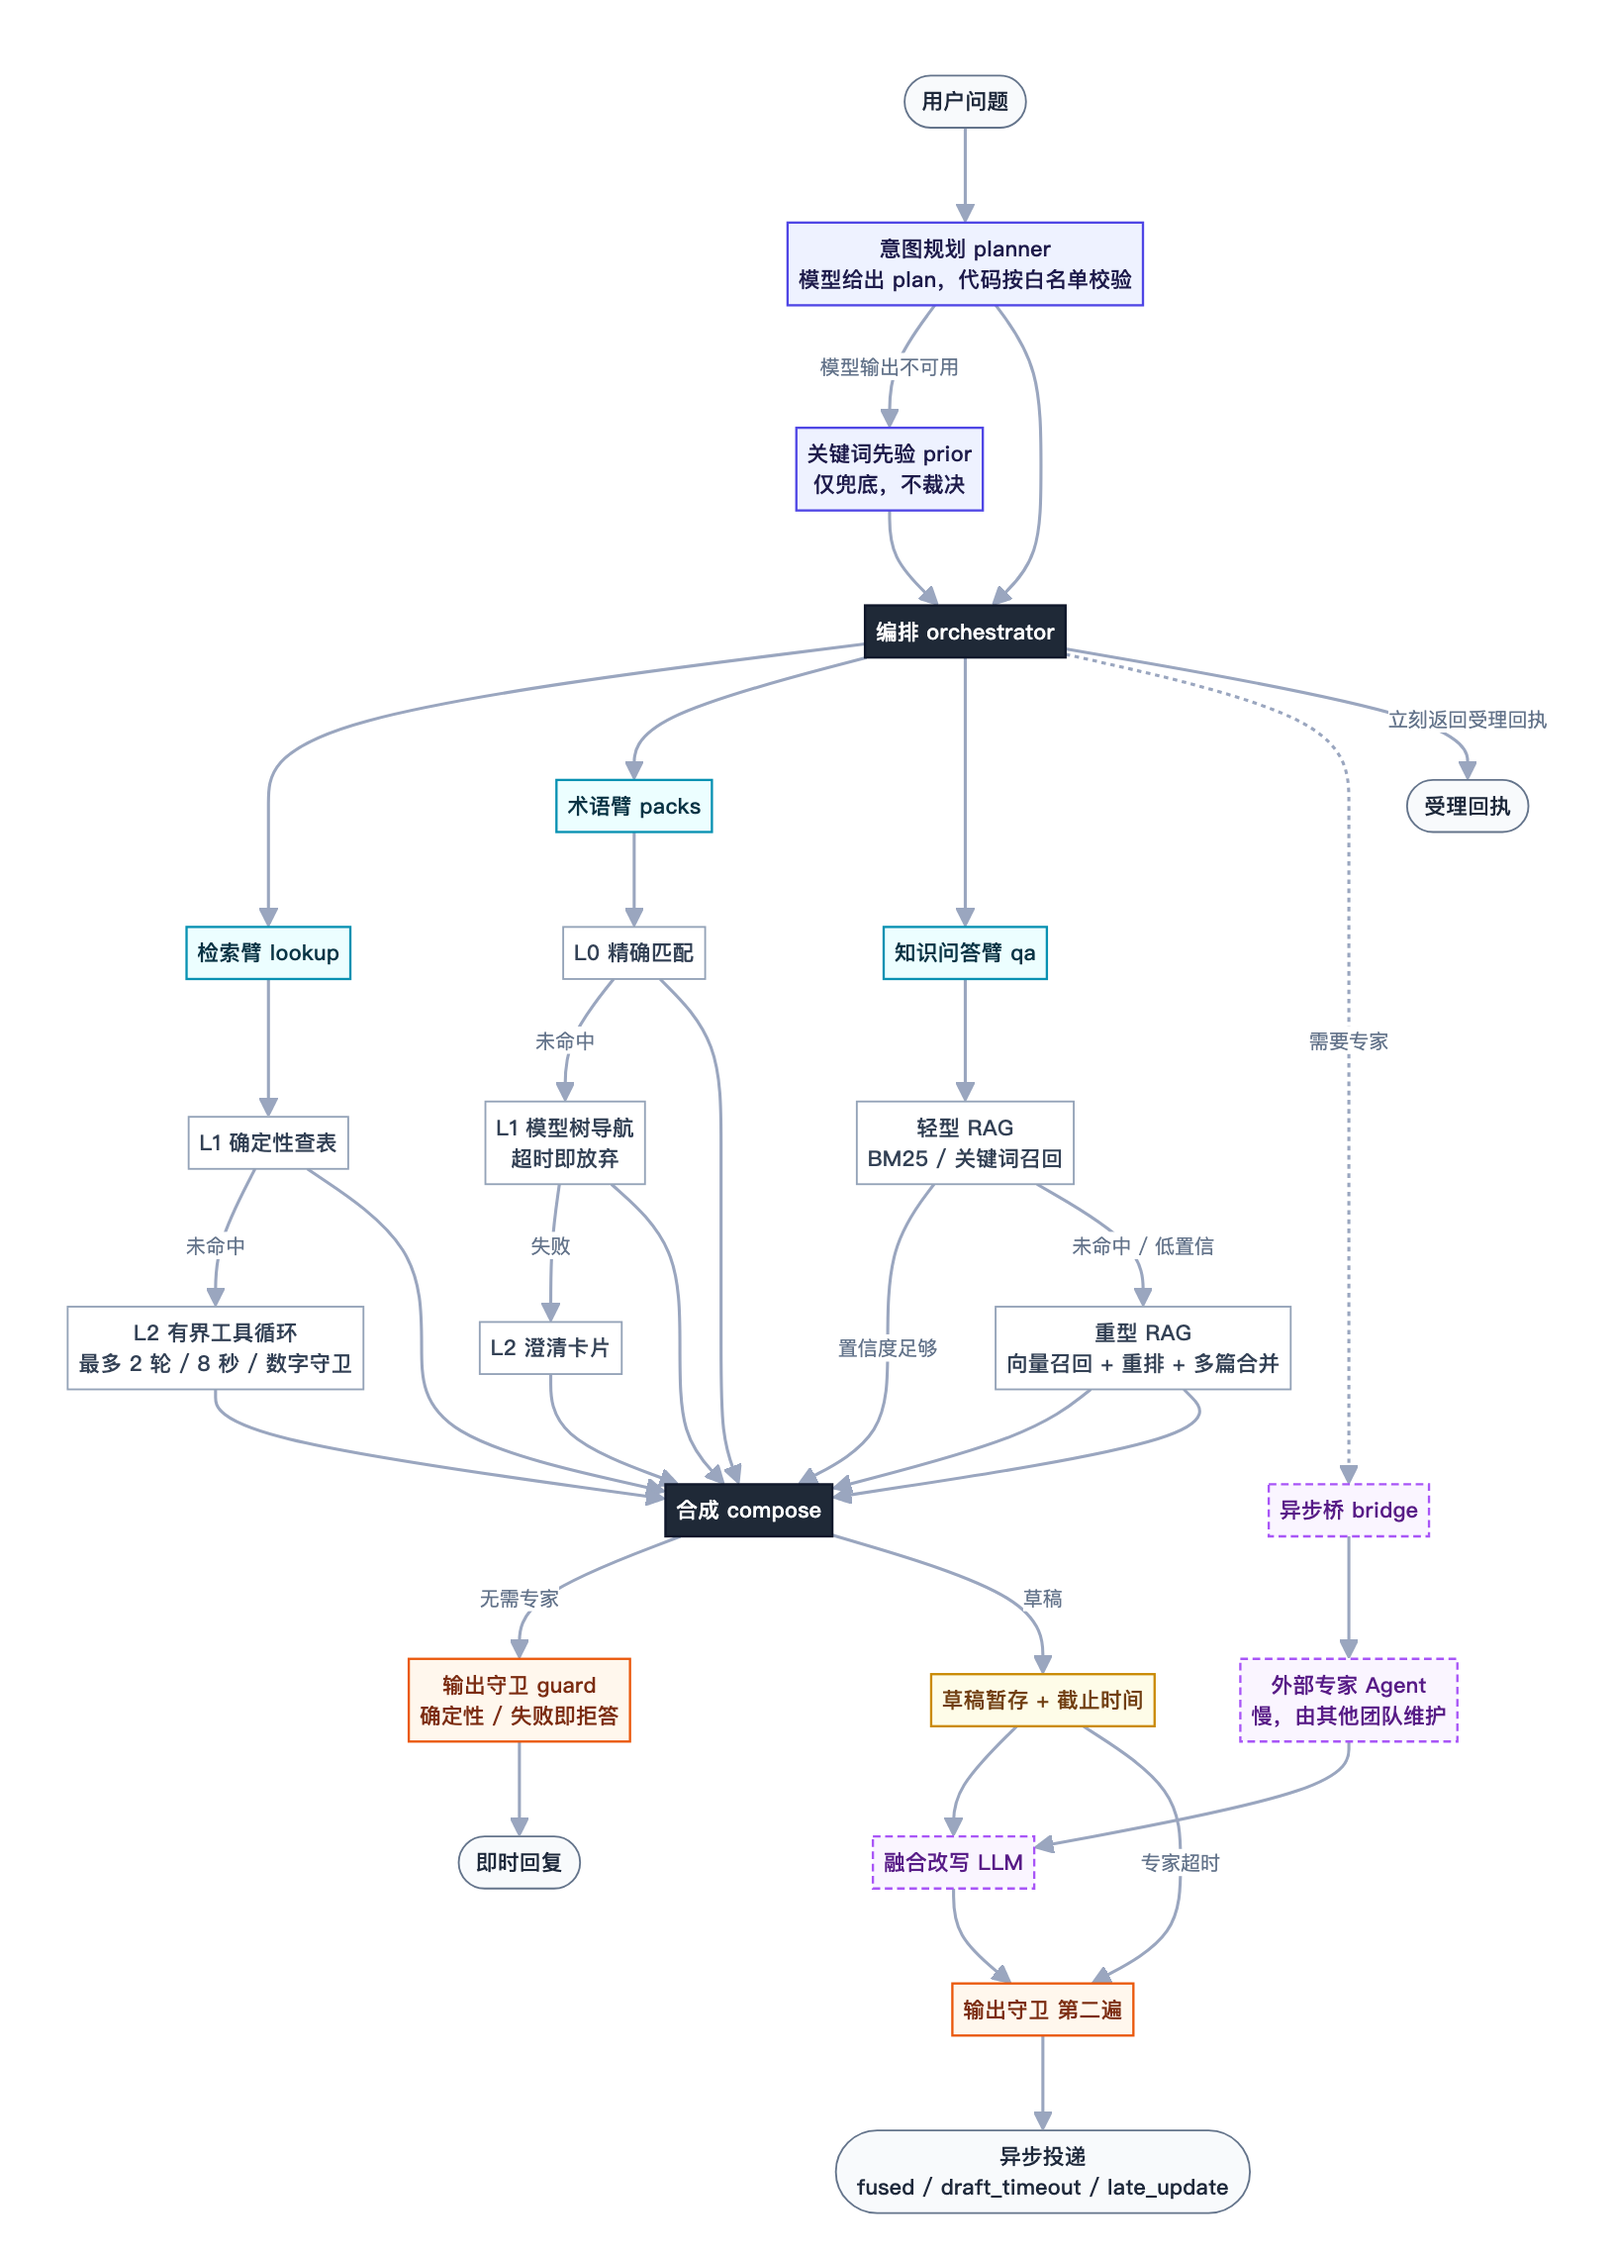
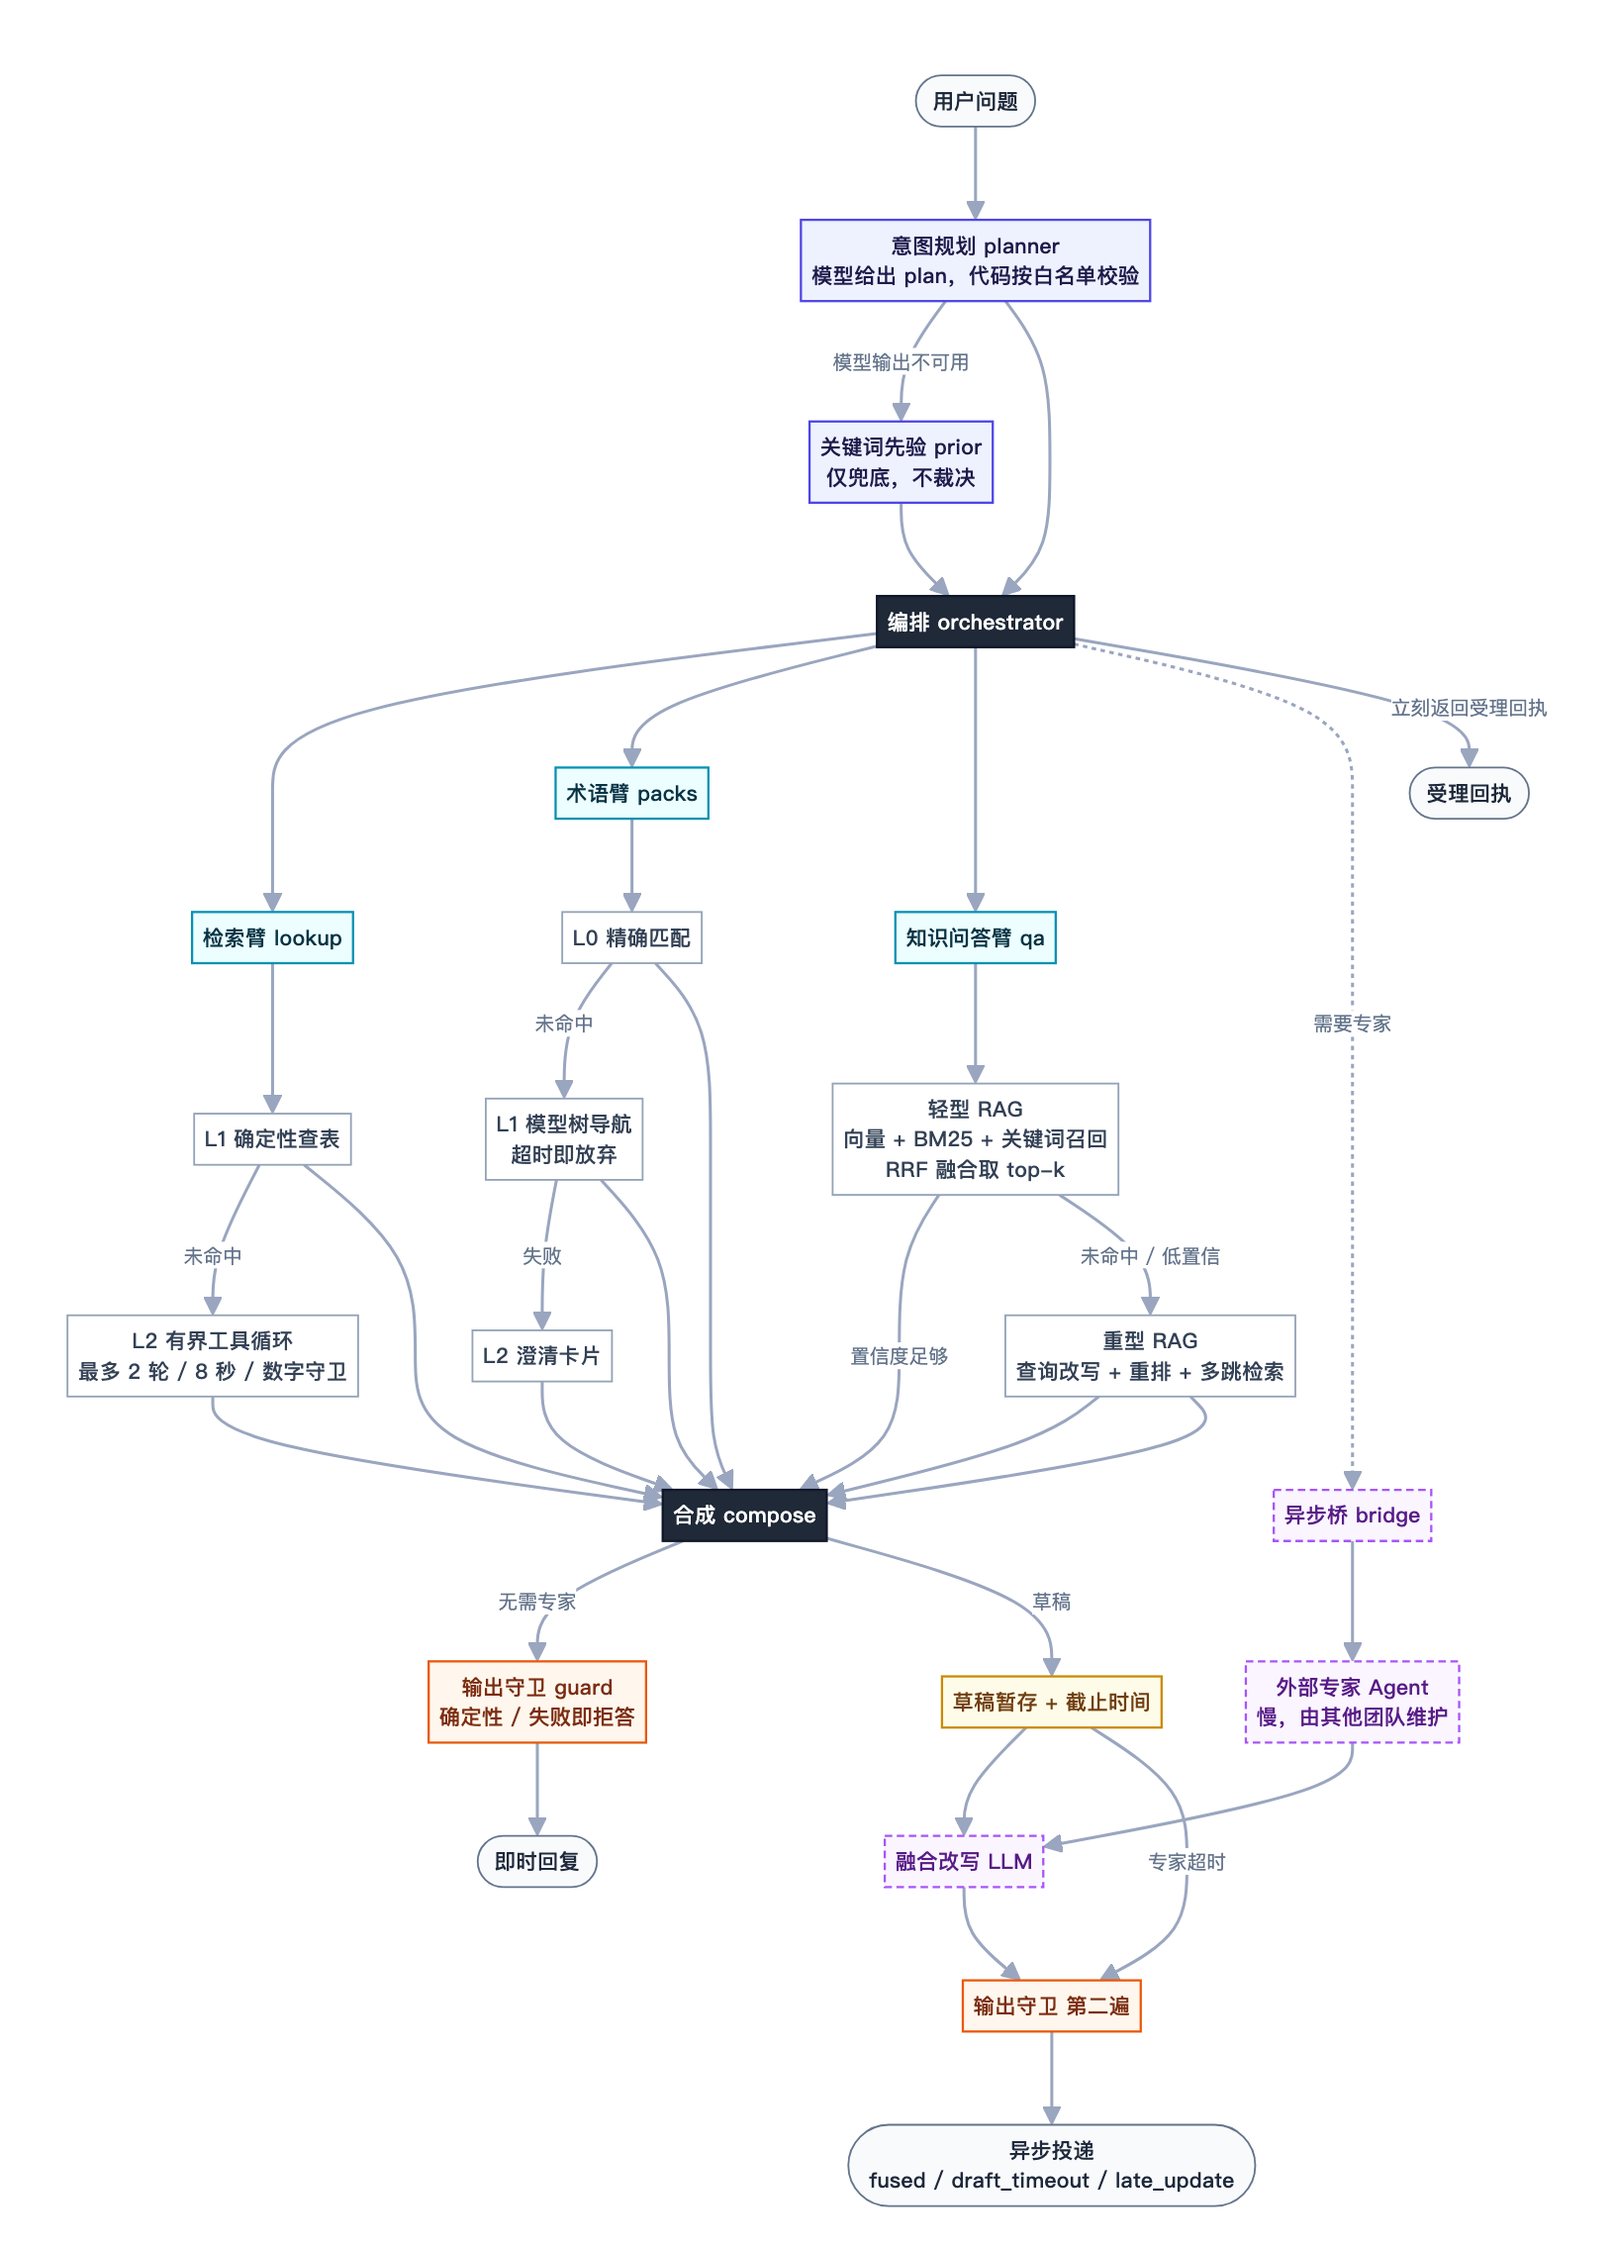
Correct light RAG definition
- 轻型 RAG：向量 + BM25 + 关键词三路召回，RRF 融合取 top-k
- 重型 RAG：查询改写 + 重排 + 多跳检索
- 同步组件表、设计决策、产品文档与 README
- PNG 重新导出

diff --git a/docs/design.md b/docs/design.md
@@ -46,18 +46,19 @@
 - `MockLLM` 按提示词开头的 `[task:xxx]` 标签返回确定结果，测试与演示不需要网络。
 
 ### 8. QA 臂：轻型 RAG 与重型 RAG 两级
-- 选择：先走**轻型 RAG**（BM25 / 关键词，单跳、零模型）；命中且置信度足够就直接回答并附来源。
-  未命中或低置信时升级到**重型 RAG**（查询改写 → 向量召回 → 重排 → 多篇合并）。
-- 理由：多数知识问题靠词法召回就能命中，重型链路的延迟与成本只应花在残余问题上；
-  升级条件（分数阈值）可观测、可调，便于用 Badcase 校准。
-- 代价：需要维护两套索引与一个置信度阈值；阈值偏松会过度升级，偏紧会漏掉该升级的问题。
+- 选择：先走**轻型 RAG**——向量、BM25、关键词三路召回，用 RRF 融合后取 top-k，单跳、低延迟；
+  置信度足够就直接回答并附来源。未命中或低置信时升级到**重型 RAG**——查询改写 → 重排 → 多跳检索 → 多篇合并。
+- 理由：三路召回同时覆盖语义相似与字面命中两类问题，RRF 只依赖排名、不需要训练融合权重；
+  重型链路只处理残余问题，成本和延迟可控；升级阈值可观测、可调，便于用 Badcase 校准。
+- 代价：轻型链路也要维护向量索引，并保证三路召回的分词、过滤与 top-k 口径一致；
+  阈值偏松会过度升级，偏紧会漏掉该升级的问题。
 
 ## 已知限制
 
 - 守卫是正则与列名规则，召回受规则覆盖限制。新的敏感表达需要补规则。
 - 句子切分按英文标点，中文标点需要调整 `redact()` 的切分表达式。
-- 本仓库 demo 只实现轻型 RAG（关键词重叠）；重型 RAG（向量召回、重排、多篇合并）为生产链路设计，
-  不在可运行代码内，接入时需要补索引、重排器与阈值评估。
+- 本仓库 demo 只实现关键词重叠（轻型 RAG 的退化版）：没有向量索引、BM25、RRF、重排与多跳检索。
+  图中两级 RAG 是生产链路设计，接入时需要补索引、融合、重排器与阈值评估。
 - 草稿暂存在内存，进程重启会丢；生产需要持久化队列。
 - 融合模型的失败只回退到草稿，没有对融合结果做事实一致性校验。
 - 测试用 MockLLM 验证流程，不衡量真实模型的规划质量。

diff --git a/docs/architecture.md b/docs/architecture.md
@@ -25,9 +25,9 @@ flowchart TD
     W --> W0[L0 精确匹配]
     W0 -->|未命中| W1[L1 模型树导航<br/>超时即放弃]
     W1 -->|失败| W2[L2 澄清卡片]
-    Q --> R0[轻型 RAG<br/>BM25 / 关键词召回]
+    Q --> R0[轻型 RAG<br/>向量 + BM25 + 关键词召回<br/>RRF 融合取 top-k]
     R0 -->|置信度足够| C
-    R0 -->|未命中 / 低置信| R1[重型 RAG<br/>向量召回 + 重排 + 多篇合并]
+    R0 -->|未命中 / 低置信| R1[重型 RAG<br/>查询改写 + 重排 + 多跳检索]
     R1 --> C
 
     L1 --> C[合成 compose]
@@ -76,7 +76,7 @@ flowchart TD
 | lookup L1 | 类目、渠道、目标命中就直接查表 | 否 | 进 L2 |
 | lookup L2 | 模型补全未解析的维度，最多 2 轮 | 是 | 列出可选类目 |
 | packs L0/L1/L2 | 精确匹配、模型导航、澄清 | L1 用 | 澄清卡片 |
-| qa | 轻型 RAG（BM25 / 关键词）优先；低置信升级重型 RAG（向量召回 + 重排 + 多篇合并） | 轻型否 / 重型是 | 返回“未找到” |
+| qa | 轻型 RAG：向量 + BM25 + 关键词三路召回，RRF 融合取 top-k；低置信升级重型 RAG：查询改写 + 重排 + 多跳检索 | 是（embedding）/ 重型再加 LLM | 返回“未找到” |
 | bridge | 异步调用外部专家，立即返回回执 | 否 | 草稿到期后发出 |
 | delivery | 暂存草稿、融合、去重、超时兜底 | 融合用 | 发草稿 |
 | guard | 删除敏感列、名单表、敏感句，再校验 | 否 | 返回拒答文案 |

diff --git a/README.md b/README.md
@@ -25,7 +25,7 @@ orch = Orchestrator(llm=OpenAICompatLLM())   # reads LLM_BASE_URL, LLM_API_KEY, 
 
 | Question | Plan | Path |
 |---|---|---|
-| return policy | qa | light RAG (BM25/keyword) first; heavy RAG (vector + rerank) on low confidence; answer cites its source file |
+| return policy | qa | light RAG (vector + BM25 + keyword, RRF) first; heavy RAG (rewrite + rerank + multi-hop) on low confidence; answer cites its source file |
 | Apparel CPM/CTR | lookup | L1 deterministic table lookup |
 | "Electronic goods" CPM | lookup | L1 misses, L2 bounded tool loop resolves the category |
 | hiking boots terms | pack | L0 exact match on the pack tree |
@@ -41,7 +41,7 @@ src/tiered_agent/
   orchestrator.py   plan -> arms -> compose -> guard; hands external work to the bridge
   arms/lookup.py    L1 deterministic, L2 bounded tool loop with a number guard
   arms/packs.py     L0 exact, L1 model tree navigation with timeout, L2 clarification card
-  arms/qa.py        light RAG (BM25/keyword) with source names; heavy RAG is design-only
+  arms/qa.py        keyword overlap only; light RAG (vector/BM25/keyword + RRF) and heavy RAG are design-only
   async_bridge.py   slow specialist agent, held draft, fusion, timeout flush, idempotent send
   guard.py          deterministic fail-closed output guard
   llm.py            LLM protocol, OpenAI-compatible client, offline MockLLM

diff --git a/docs/product.md b/docs/product.md
@@ -17,7 +17,7 @@
 |---|---|
 | 查基准 | 直接给出表格，注明数据周期，不展示内部权重 |
 | 术语清单 | 给出对应类目的术语清单；类目不明确时给出可选项，让用户点选 |
-| 知识问答 | 先走轻型 RAG，复杂问题升级重型 RAG；回答给出规则原文，并列出来源文件 |
+| 知识问答 | 先走轻型 RAG（向量 / BM25 / 关键词 + RRF），复杂问题升级重型 RAG（查询改写 + 重排 + 多跳）；回答给出规则原文，并列出来源文件 |
 | 策略咨询 | 先收到受理回执和编号，稍后收到一条整合后的回复 |
 | 安全兜底 | 触及不可披露的数据时给出固定的拒答，不给残缺答案 |
 
@@ -41,7 +41,7 @@
 
 ## 不在范围内
 
-多轮对话记忆、真实的专家 Agent、持久化队列、权限体系；重型 RAG 的向量索引与重排器不在 demo 内，仅作链路设计。
+多轮对话记忆、真实的专家 Agent、持久化队列、权限体系；本仓库 demo 只保留关键词检索，向量索引、BM25、RRF、重排与多跳均未实现，仅作链路设计。
 这些是接入真实系统时需要补的部分，本项目只展示分层与兜底的结构。
 
 ## 版本
